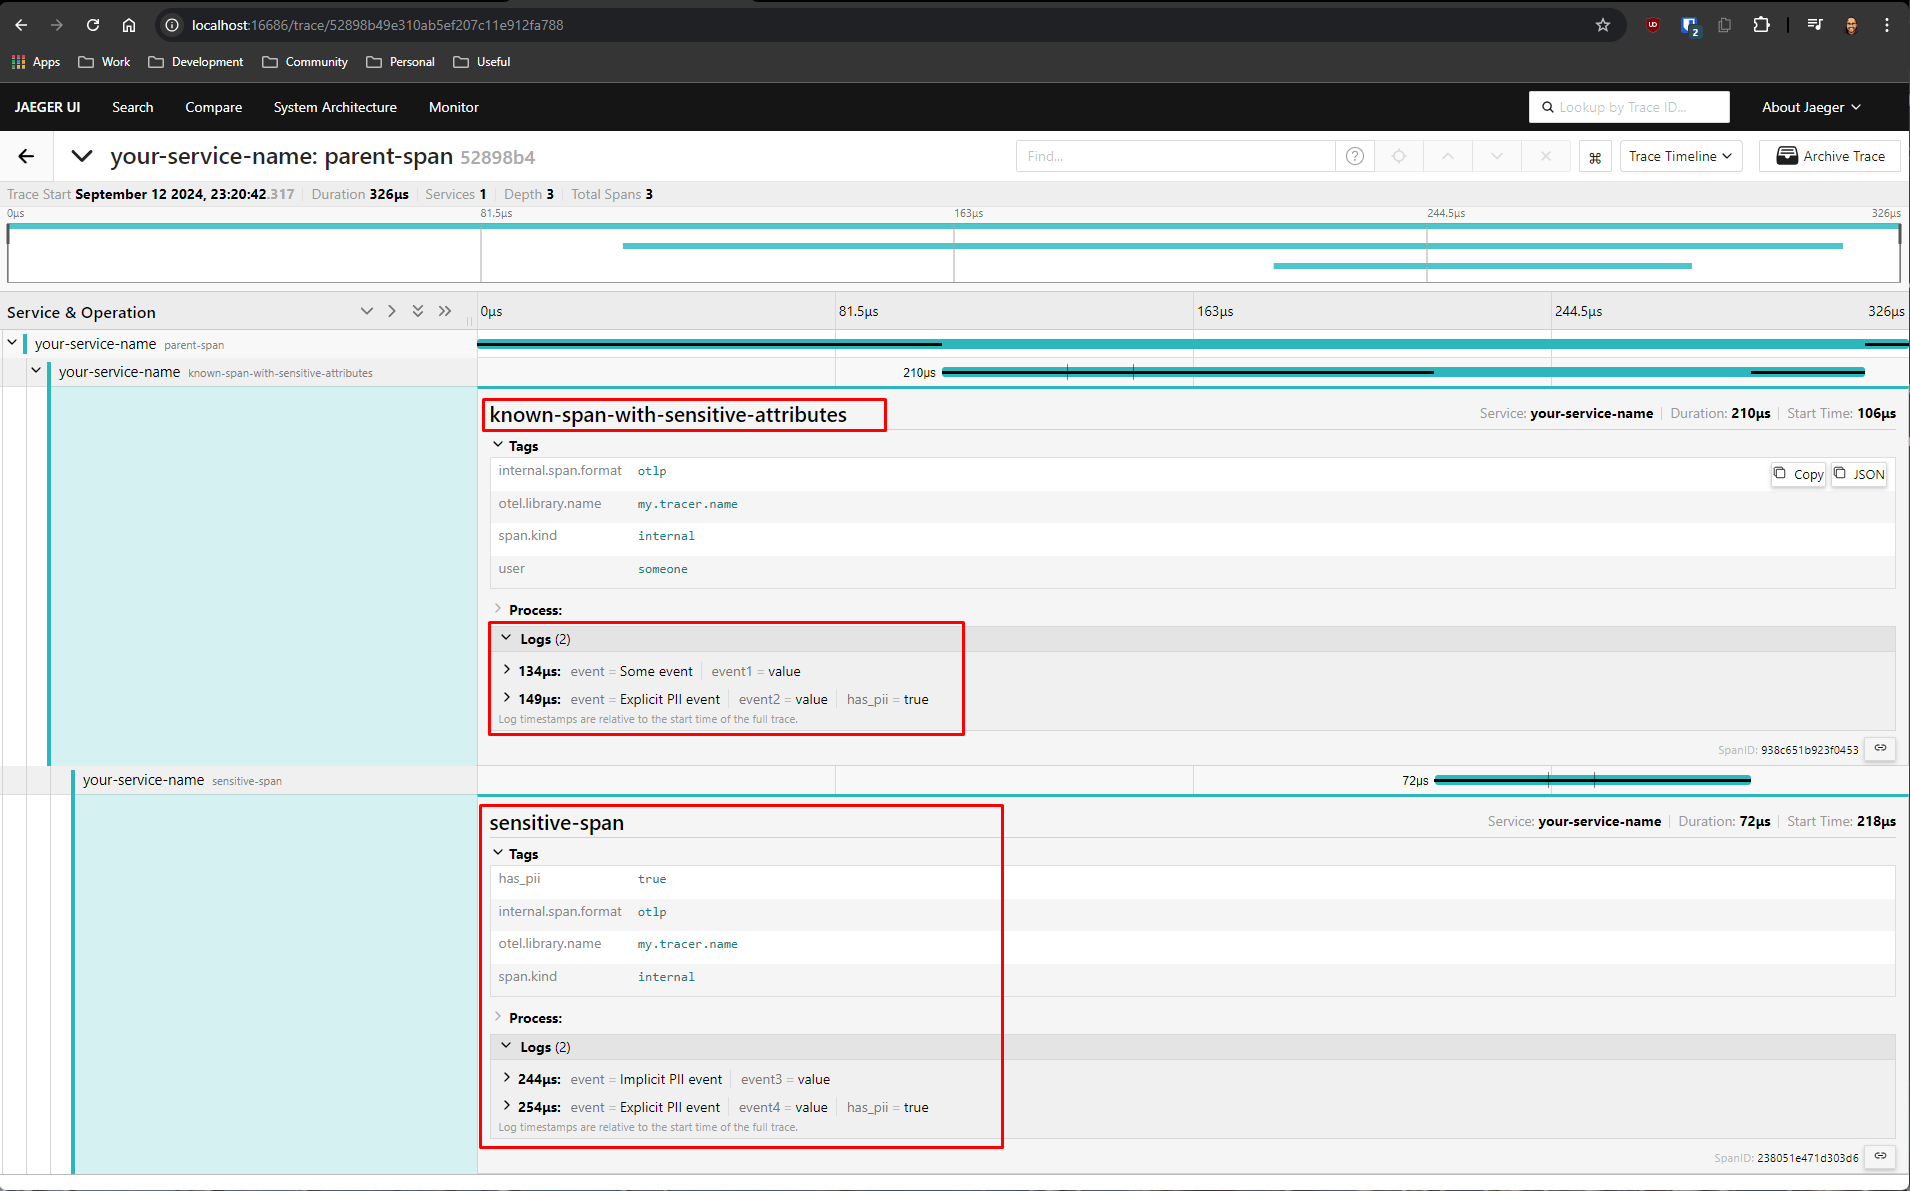
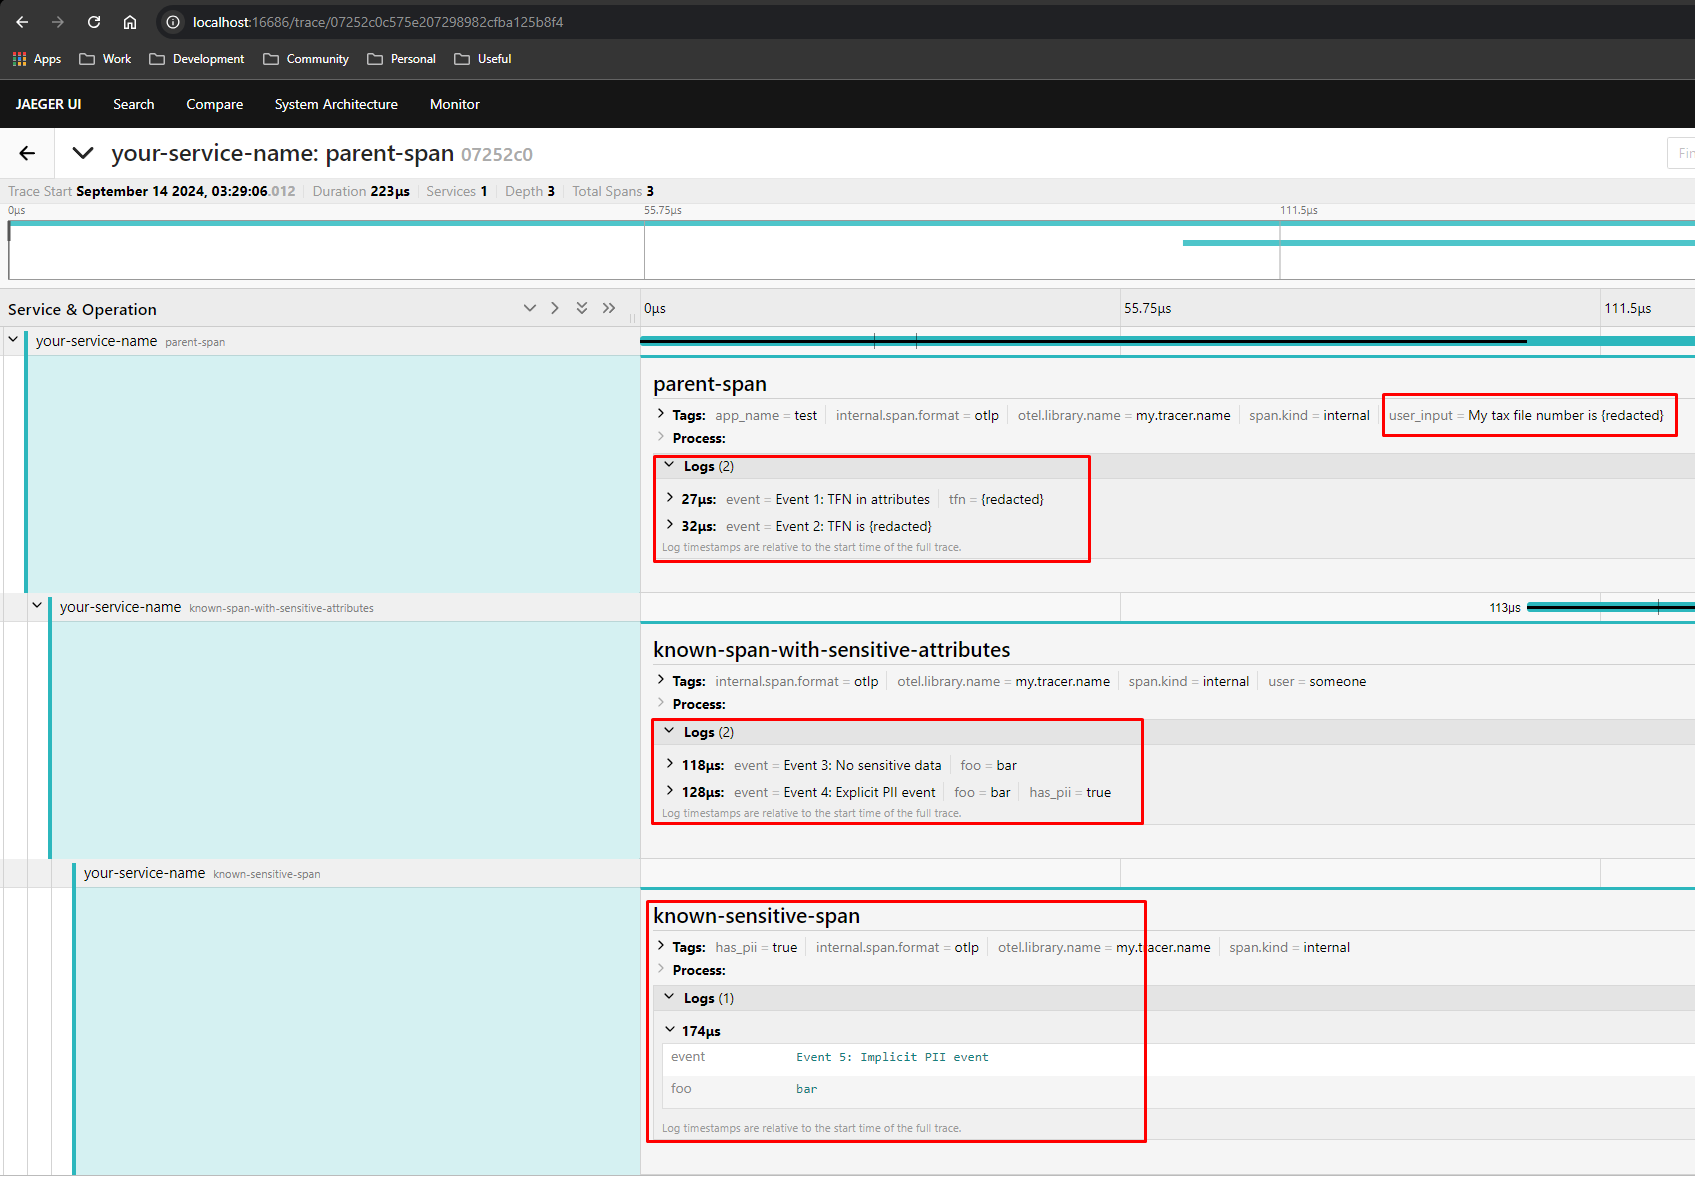
use transform porcessor

Changed region(s): [[0.0, 0.0, 1.0, 1.0], [0.8283, 0.0, 1.0, 0.0305]]

diff --git a/app.py b/app.py
@@ -23,23 +23,24 @@ tracer = trace.get_tracer("my.tracer.name")
 
 def do_work():
     with tracer.start_as_current_span("parent-span") as span:
-        span.set_attribute("name", "test")
+        span.set_attribute("app_name", "test")
+        span.set_attribute("user_input", "My tax file number is 123456789")
+        span.add_event("Event 1: TFN in attributes", {"tfn": "123456789"})
+        span.add_event("Event 2: TFN in name - 123456789")
         print("doing some work...")
         mixed_function()
 
 def mixed_function():
     with tracer.start_as_current_span("known-span-with-sensitive-attributes") as span:
         span.set_attribute("user", "someone")
-        span.add_event("Some event", {"event1": "value"})
-        span.add_event("Explicit PII event", {"event2": "value", "has_pii": "true"})
+        span.add_event("Event 3: No sensitive data", {"foo": "bar"})
+        span.add_event("Event 4: Explicit PII event", {"foo": "bar", "has_pii": "true"})
         print("simulating a mixed function which has a sensitive attributes...")
         log_ppi_data()
 
 def log_ppi_data():
-    with tracer.start_as_current_span("sensitive-span") as span:
-        span.set_attribute("has_pii", "true")
-        span.add_event("Implicit PII event", {"event3": "value"})
-        span.add_event("Explicit PII event", {"event4": "value", "has_pii": "true"})
+    with tracer.start_as_current_span("known-sensitive-span", attributes={"has_pii": "true"}) as span:
+        span.add_event("Event 5: Implicit PII event", {"foo": "bar"})
         print("doing some work with PII...")
 
 if __name__ == "__main__":

diff --git a/README.md b/README.md
@@ -9,11 +9,13 @@
 ![Filtered backend](filtered-backend.png)
 
 - `known-span-with-sensitive-attributes` span's `user` attribute value is redacted.
-- `Explicit PII event` with `"has_pii": "true"` attributes is filtered out.
-- `sensitive-span` span with `"has_pii": "true"` attributes is filtered out.
+- Names and attributes of spans or span events with `"has_pii": "true"` attribute is redacted.
+- `known-sensitive-span` span attributes and events are redacted.
+- Tax File Numbers are redacted from spans and span events.
 
 ## Unfiltered backend
 
 ![Unfiltered backend](unfiltered-backend.png)
 
-- All spans and associated events (logs) are shown.
+- Tax File Numbers are redacted from spans and span events.
+- All other spans and associated events (logs) are shown.
